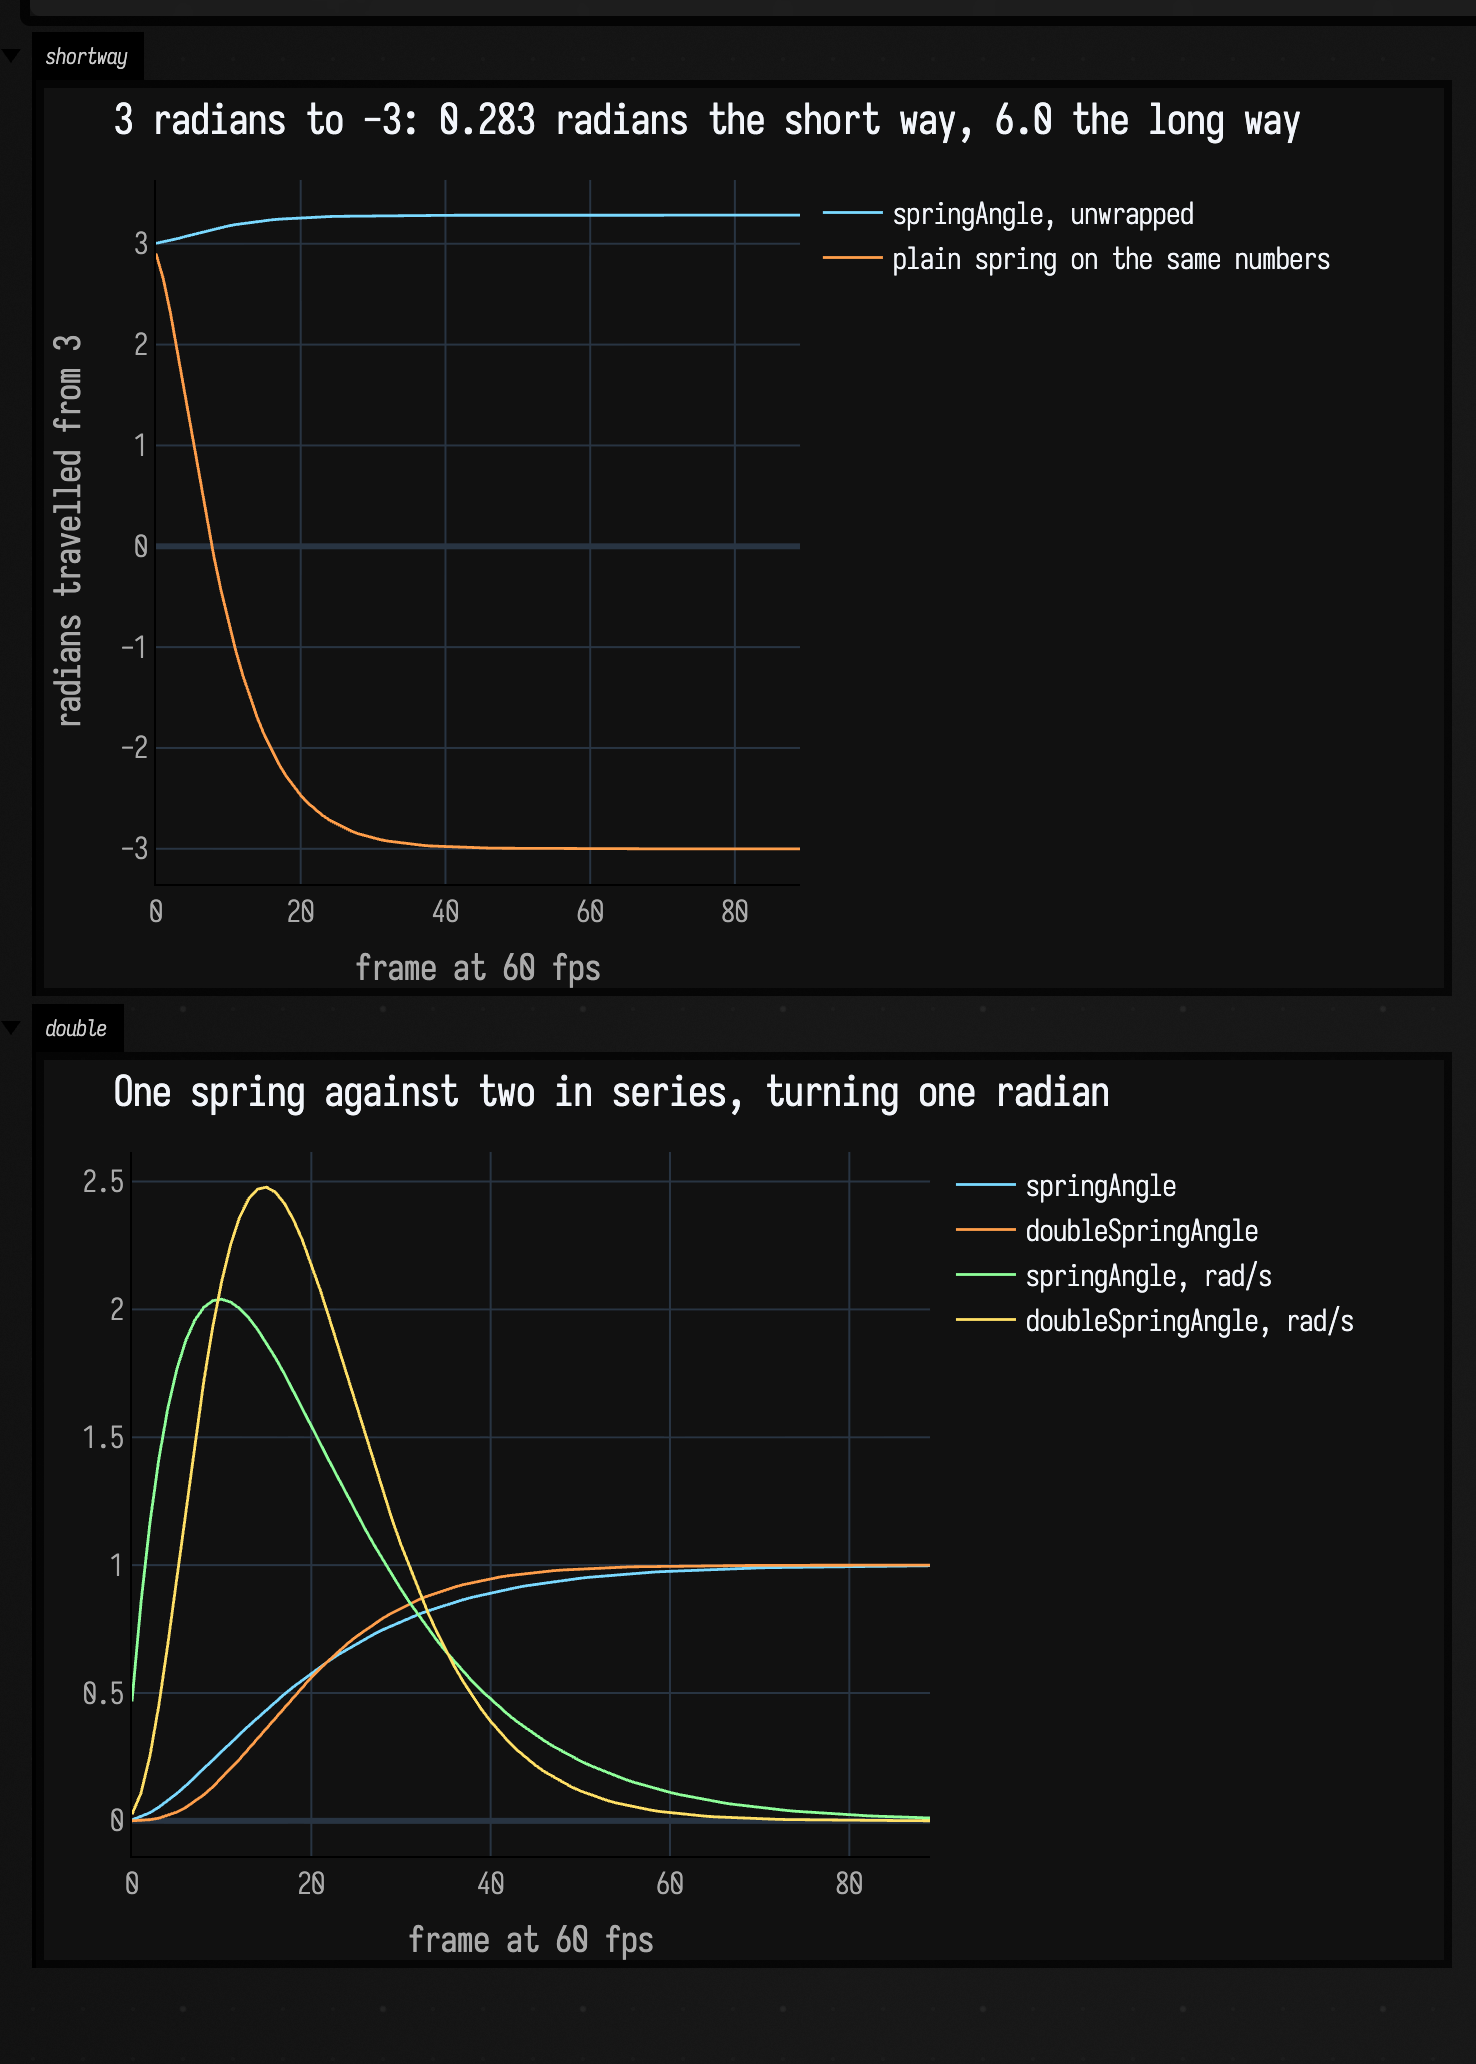
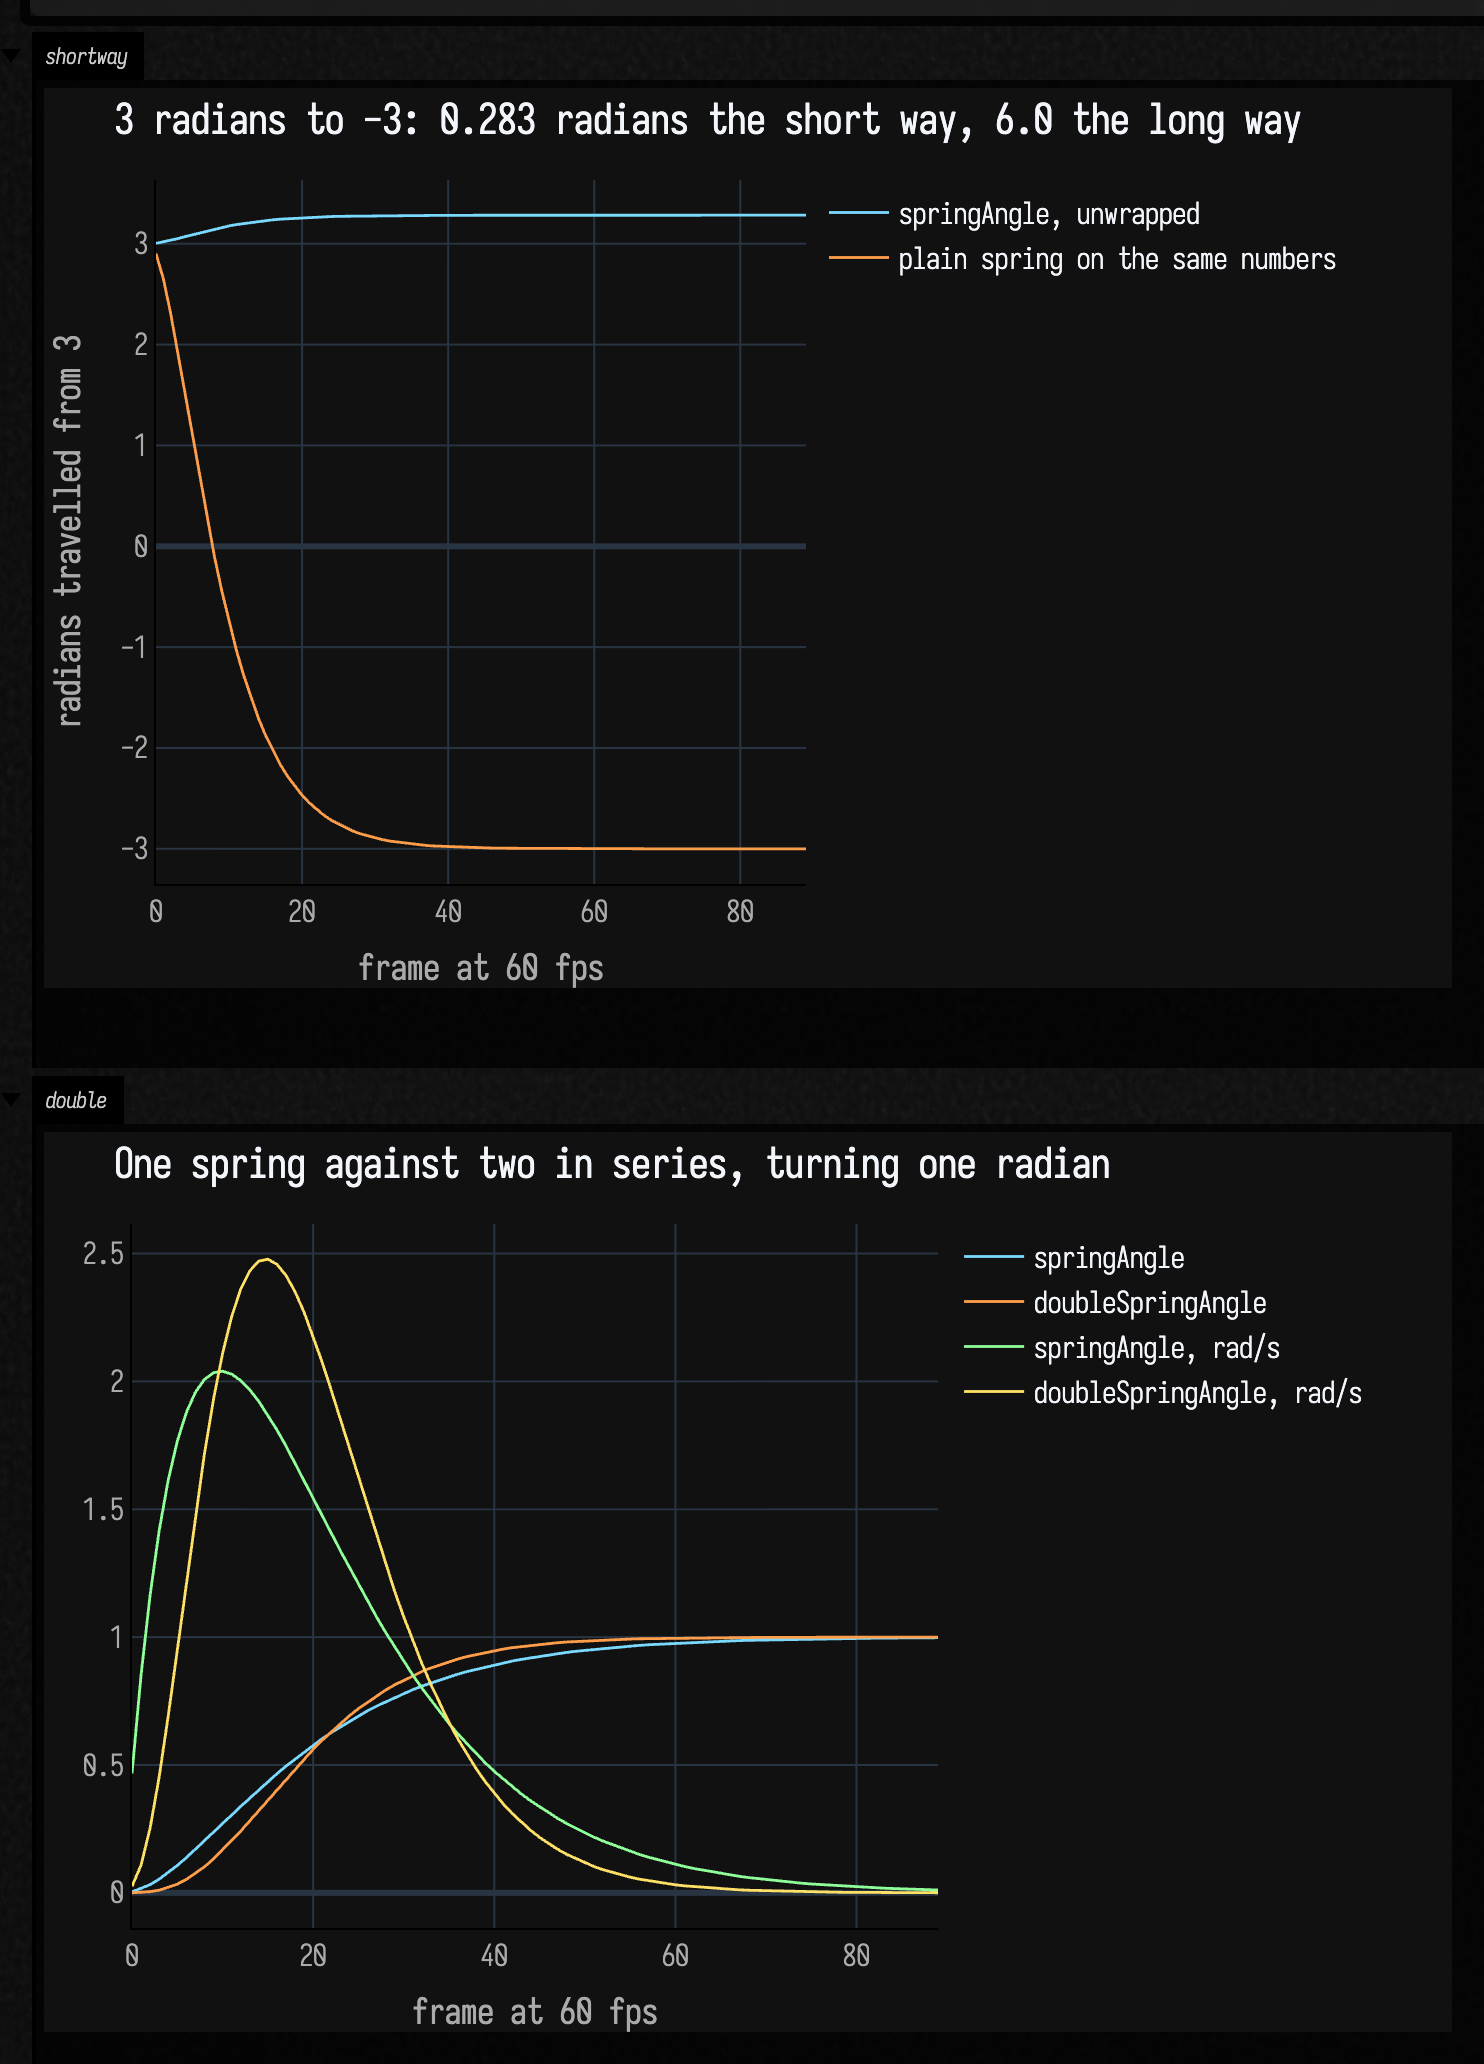
springAngle returns an angle continuous with its input, no 2π step

diff --git a/src/jvmMain/kotlin/afield/animation/motion/movement.kt b/src/jvmMain/kotlin/afield/animation/motion/movement.kt
@@ -166,17 +166,19 @@ object Springs {
      * angle, so a spring at 3 radians chasing -3 turns the short way, onward through π, rather than
      * sweeping back across zero.
      *
-     * The result is always expressed near [goal], which means the *number* can jump by 2π on the
-     * step where the short way crosses ±π even though the angle does not. Feed it to [cos]/[sin] or
-     * a rotation and that is invisible; compare it against a previous value and take the difference
-     * through [wrapAngle].
+     * The result is continuous with [x]: consecutive steps never jump by 2π, even where the short way
+     * crosses ±π, so it can be compared against the previous value directly. It is not wrapped into
+     * `-π..π`; use [wrapAngle] where that matters.
      */
     fun springAngle(x: Float, v: Float, goal: Float, halflife: Float, dt: Float): Step {
         val y = halflifeToDamping(halflife) / 2f
         val j0 = wrapAngle(x - goal)
         val j1 = v + j0 * y
         val eydt = exp(-y * dt)
-        return Step(eydt * (j0 + j1 * dt) + goal, eydt * (v - j1 * y * dt))
+        val next = eydt * (j0 + j1 * dt) + goal
+        // Continuous with [x]: the spring is solved relative to the goal along the short way, and
+        // reporting it there would jump by 2π on the step where the short way crosses ±π.
+        return Step(x + wrapAngle(next - x), eydt * (v - j1 * y * dt))
     }
 
     /**

diff --git a/src/jvmTest/kotlin/afield/animation/motion/MovementTest.kt b/src/jvmTest/kotlin/afield/animation/motion/MovementTest.kt
@@ -297,4 +297,20 @@ class MovementTest {
         assertEquals(1f, character.rotation, 0f)
         assertEquals(0f, character.angularVelocity, 0f)
     }
+
+    @Test
+    fun springAngleStaysContinuousAcrossPi() {
+        // From just below +π toward just above -π: the short way runs onward through π.
+        var x = 3.0f
+        var v = 0.0f
+        var previous = x
+        repeat(120) {
+            val step = Springs.springAngle(x, v, -3.0f, 0.2f, 1f / 60f)
+            assertTrue(kotlin.math.abs(step.x - previous) < 0.5f, "jumped from $previous to ${step.x}")
+            previous = step.x
+            x = step.x
+            v = step.v
+        }
+        assertTrue(kotlin.math.abs(Springs.wrapAngle(x - -3.0f)) < 1e-2f, "settled at the goal, got $x")
+    }
 }

diff --git a/public/docs/movement_examples.md b/public/docs/movement_examples.md
@@ -255,11 +255,6 @@ behind, then overtakes: peak rate 2.48 rad/s at frame 14 against 2.04 at frame 9
 and a slightly earlier arrival, because two springs on half a half-life each
 settle faster than one on the whole.
 
-!!! warning "`springAngle` reports its answer near the goal"
-    The returned number can jump by 2π on the step where the short way crosses
-    ±π, even though the angle does not. Feed it to `cos`/`sin` or a rotation and
-    that is invisible. Compare it against a previous value, as the plot above has
-    to, and take the difference through `wrapAngle` first.
 
 ## A character following a moving target
 
